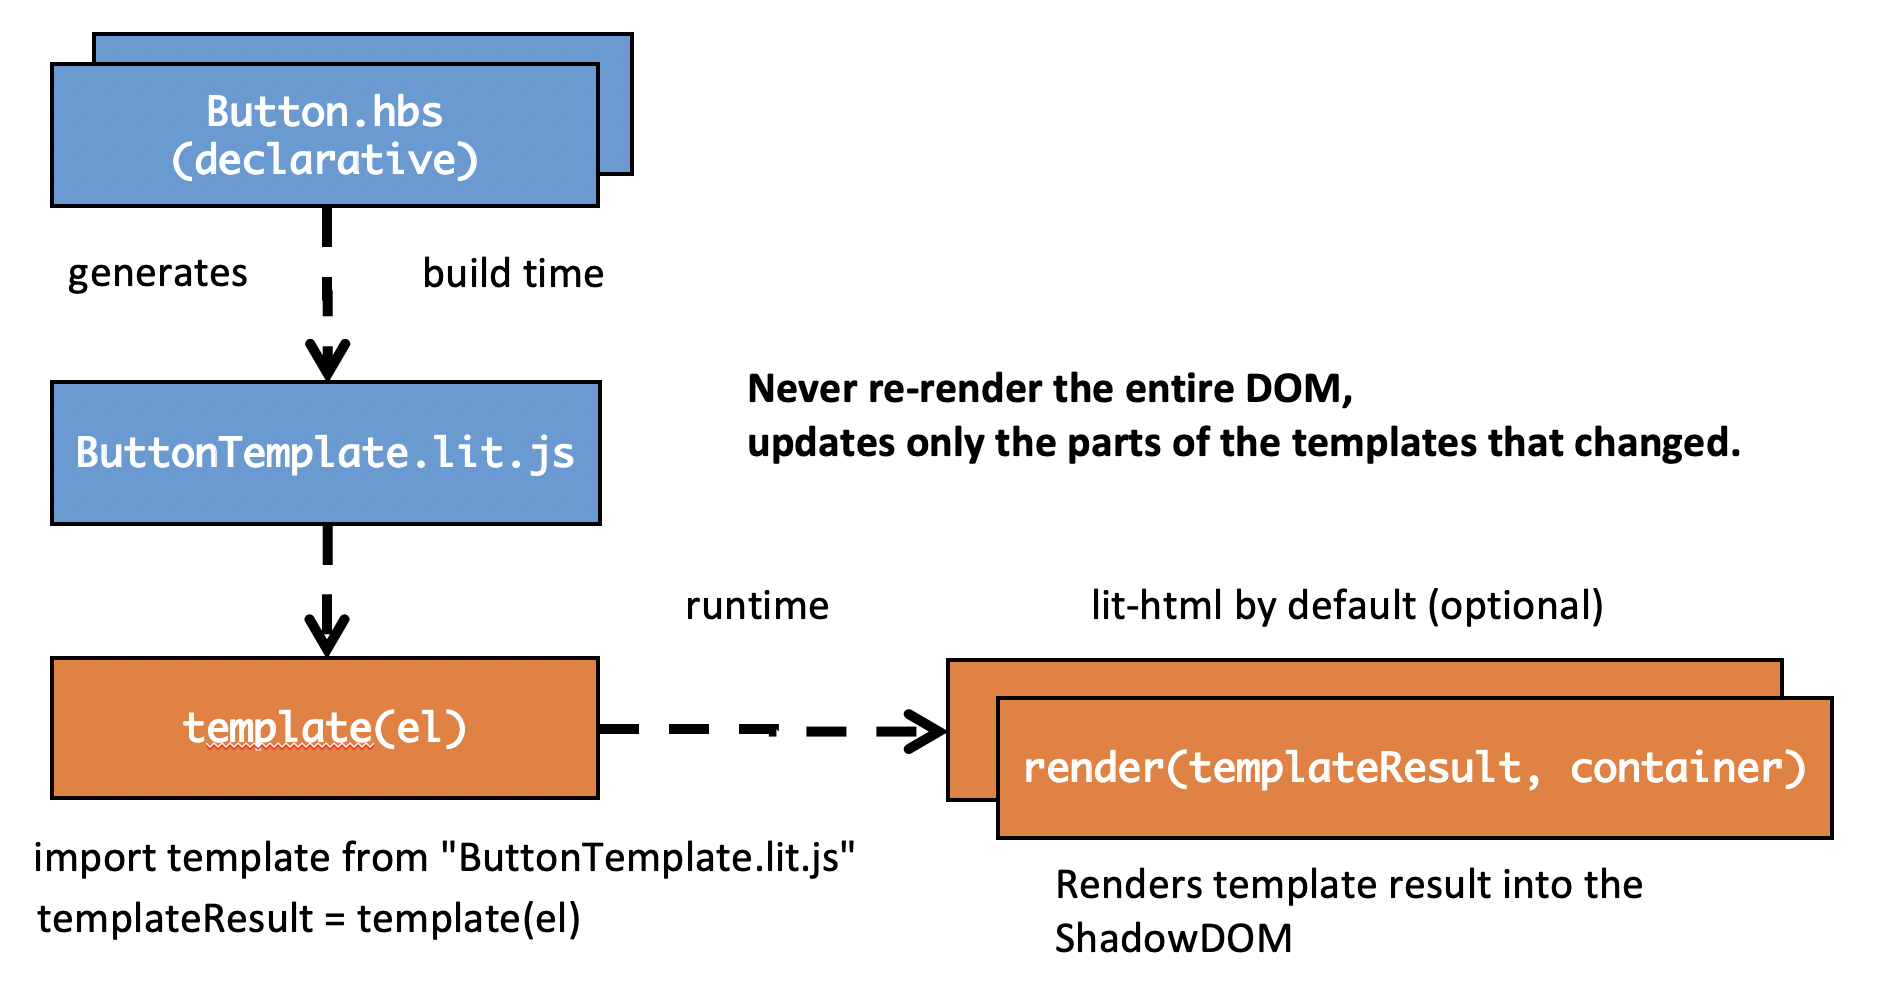
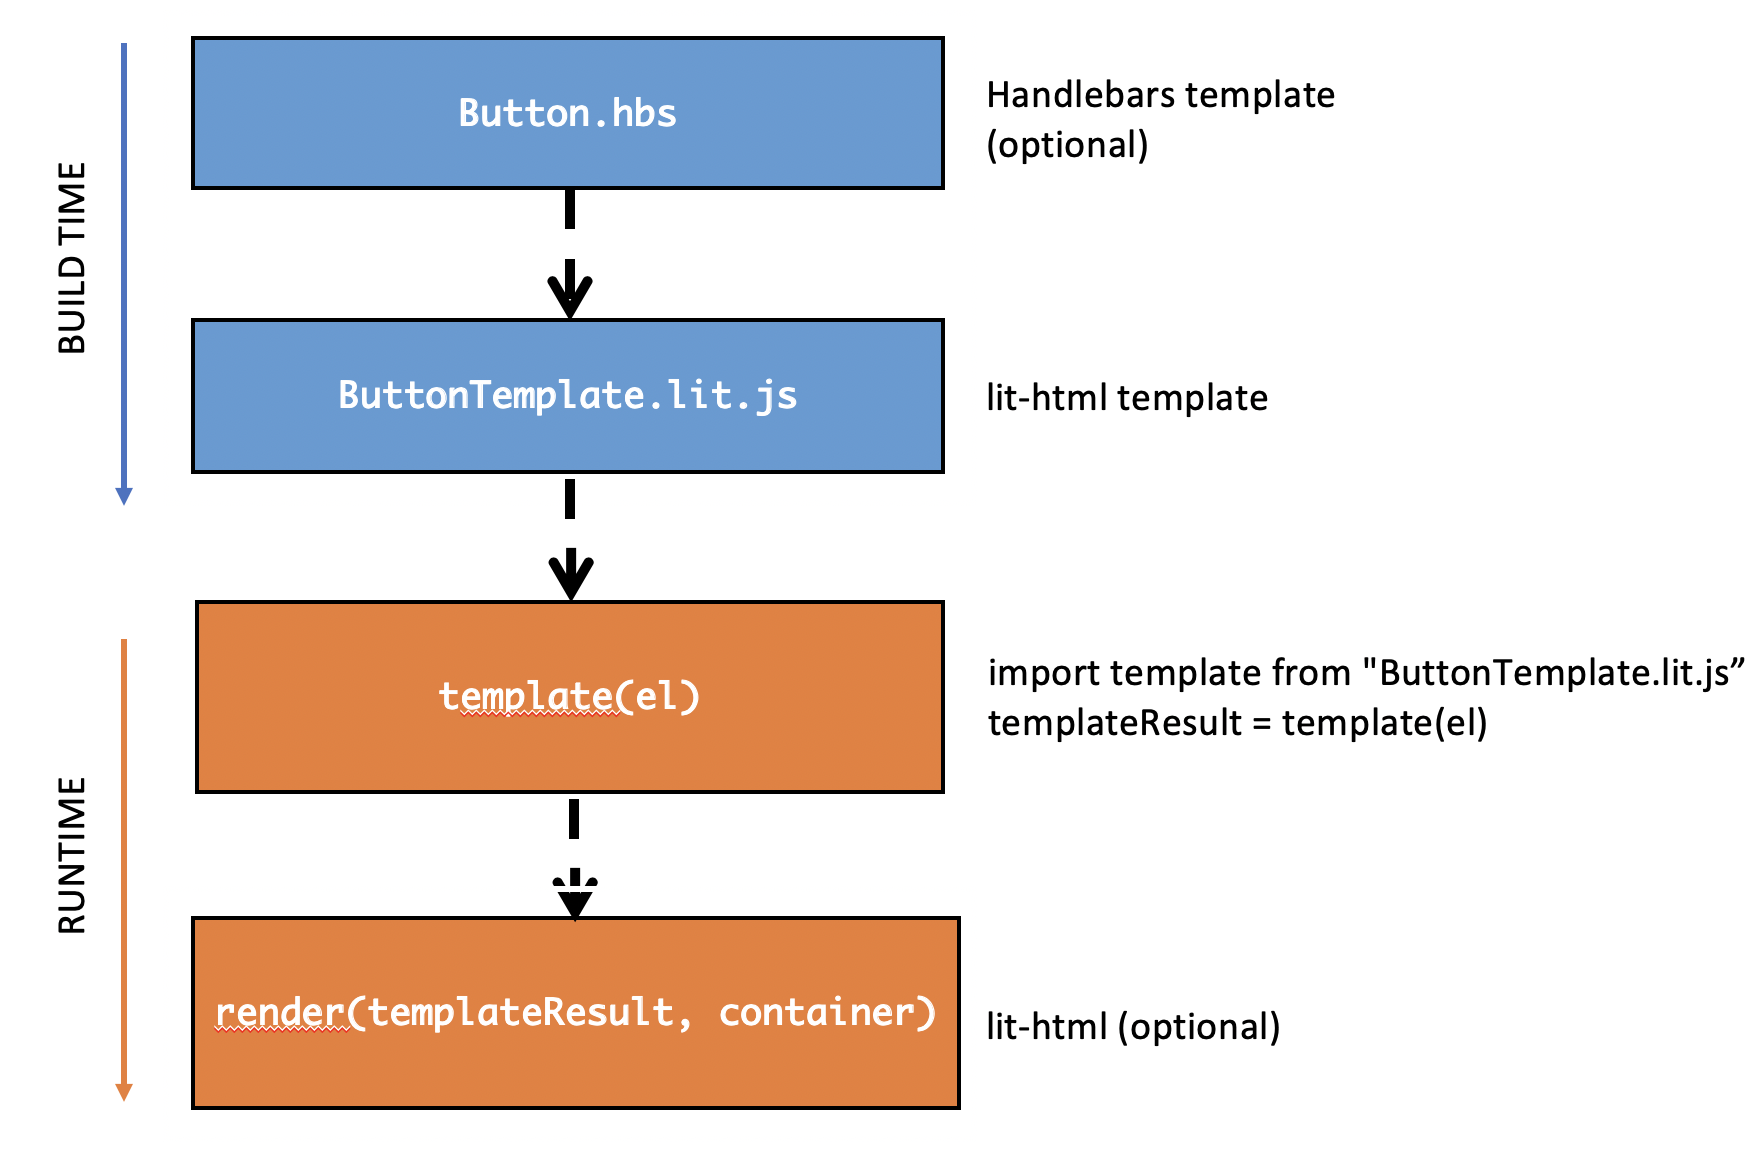
update

diff --git a/index.html b/index.html
@@ -227,7 +227,7 @@
 							</my-component>
 						</code></pre>
 				</section>
-
+ 
 				<section>
 					<h2>Shadow DOM</h2>
 					<span>Encapsulate styling, behaviour and representation</span>
@@ -311,16 +311,16 @@
 					<h3>Custom HTML Elements</h3>
 					<br>
 					<pre><code data-trim data-noescape>
-								&ltui5-title>Hello UI5 Con&lt/ui5-title>
+						&ltui5-title>Hello UI5 Con&lt/ui5-title>
 
-								&ltui5-button>Hello UI5 Con&lt/ui5-button>
+						&ltui5-button>Hello UI5 Con&lt/ui5-button>
 
-								&ltui5-list>
-									&ltui5-li>Pineapple&lt/ui5-li>
-									&ltui5-li>Apple&lt/ui5-li>
-									&ltui5-li>Banana&lt/ui5-li>
-								&lt/ui5-list>
-							</code></pre>
+						&ltui5-list>
+							&ltui5-li>Pineapple&lt/ui5-li>
+							&ltui5-li>Apple&lt/ui5-li>
+							&ltui5-li>Banana&lt/ui5-li>
+						&lt/ui5-list>
+					</code></pre>
 				</section>
 
 				<section>
@@ -756,6 +756,17 @@
 			</section>
 
 			<section>
+				<h3>Rendering</h3>
+				<img style="width: 70%" src="images/rendering.png" />
+			</section>
+
+			<section>
+				<h3>Rendering</h3>
+				<img style="width: 70%" src="images/rendering2.png" />
+			</section>
+
+		
+			<section>
 				<h3>Declarative Renderer</h3>
 				<br>
 				<pre><code data-trim data-noescape>
@@ -791,6 +802,12 @@
 					&lt/button>`
 				</code></pre>
 			</section>
+
+			<section>
+				<h3>Rendering</h3>
+				<img style="width: 70%" src="images/rendering3.png" />
+			</section>
+
 			<section>
 				<h3>Template</h3>
 				<br>
@@ -813,10 +830,14 @@
 				</code></pre>
 	
 			</section>
-
 			<section>
-				<h3>Rendering</span></h3>
-				<img src="images/rendering.png" />
+				<h3>Rendering</h3>
+				<img style="width: 70%" src="images/rendering4.png" />
+			</section>
+			
+			<section>
+				<h3>Ta-da!</h3>
+				<ui5-button style="width: 150px;height: 60px;">Press me</ui5-button>
 			</section>
 		</section>
 
@@ -832,21 +853,25 @@
 
 		<section>
 			<section data-background-color="#000">
-				<h2 class="ui5con-divider">2019<span class="ui5con-orange"> Roadmap</span></h3>
+				<h2 class="ui5con-divider">Next<span class="ui5con-orange"> steps</span></h3>
 			</section>
 
 			<section>
-				<img src="images/roadmap.png" />
+				<h2>We need<span class="ui5con-orange"> you!</span></h3>
 			</section>
 
 			<section>
-				<h2>Next <span class="ui5con-orange"> steps</span></h3>
+				<img style="width: 70%;" src="images/status.png" />
+			</section>
+
+			<section>
+				<h2>Upcoming topics</h3>
 				<br>
 				<ul style="list-style: none;">
-					<li>New UI5 Web components</li>
-					<li>Authoring UI5 Web Components</li>
+					<li>Theming</li>
+					<li>New components</li>
+					<li>Custom components</li>
 					<li>Server-Side Rendering</li>
-					<li>CSS Shadow Parts</li>
 				</ul>
 				<div style="height: 200px"></div>
 			</section>
@@ -896,8 +921,9 @@
 			<div class="ui5con-speakerdetails">
 				Contact information:<br><br>
 				Ilhan Myumyun<br>
+				https://twitter.com/ilhanorhan007</br>
 				Martin Hristov<br>
-				https://github.com/SAP/ui5-webcomponents<br>
+				https://twitter.com/MartoHristov<br>
 			</div>
 		</section>
 	</div>
